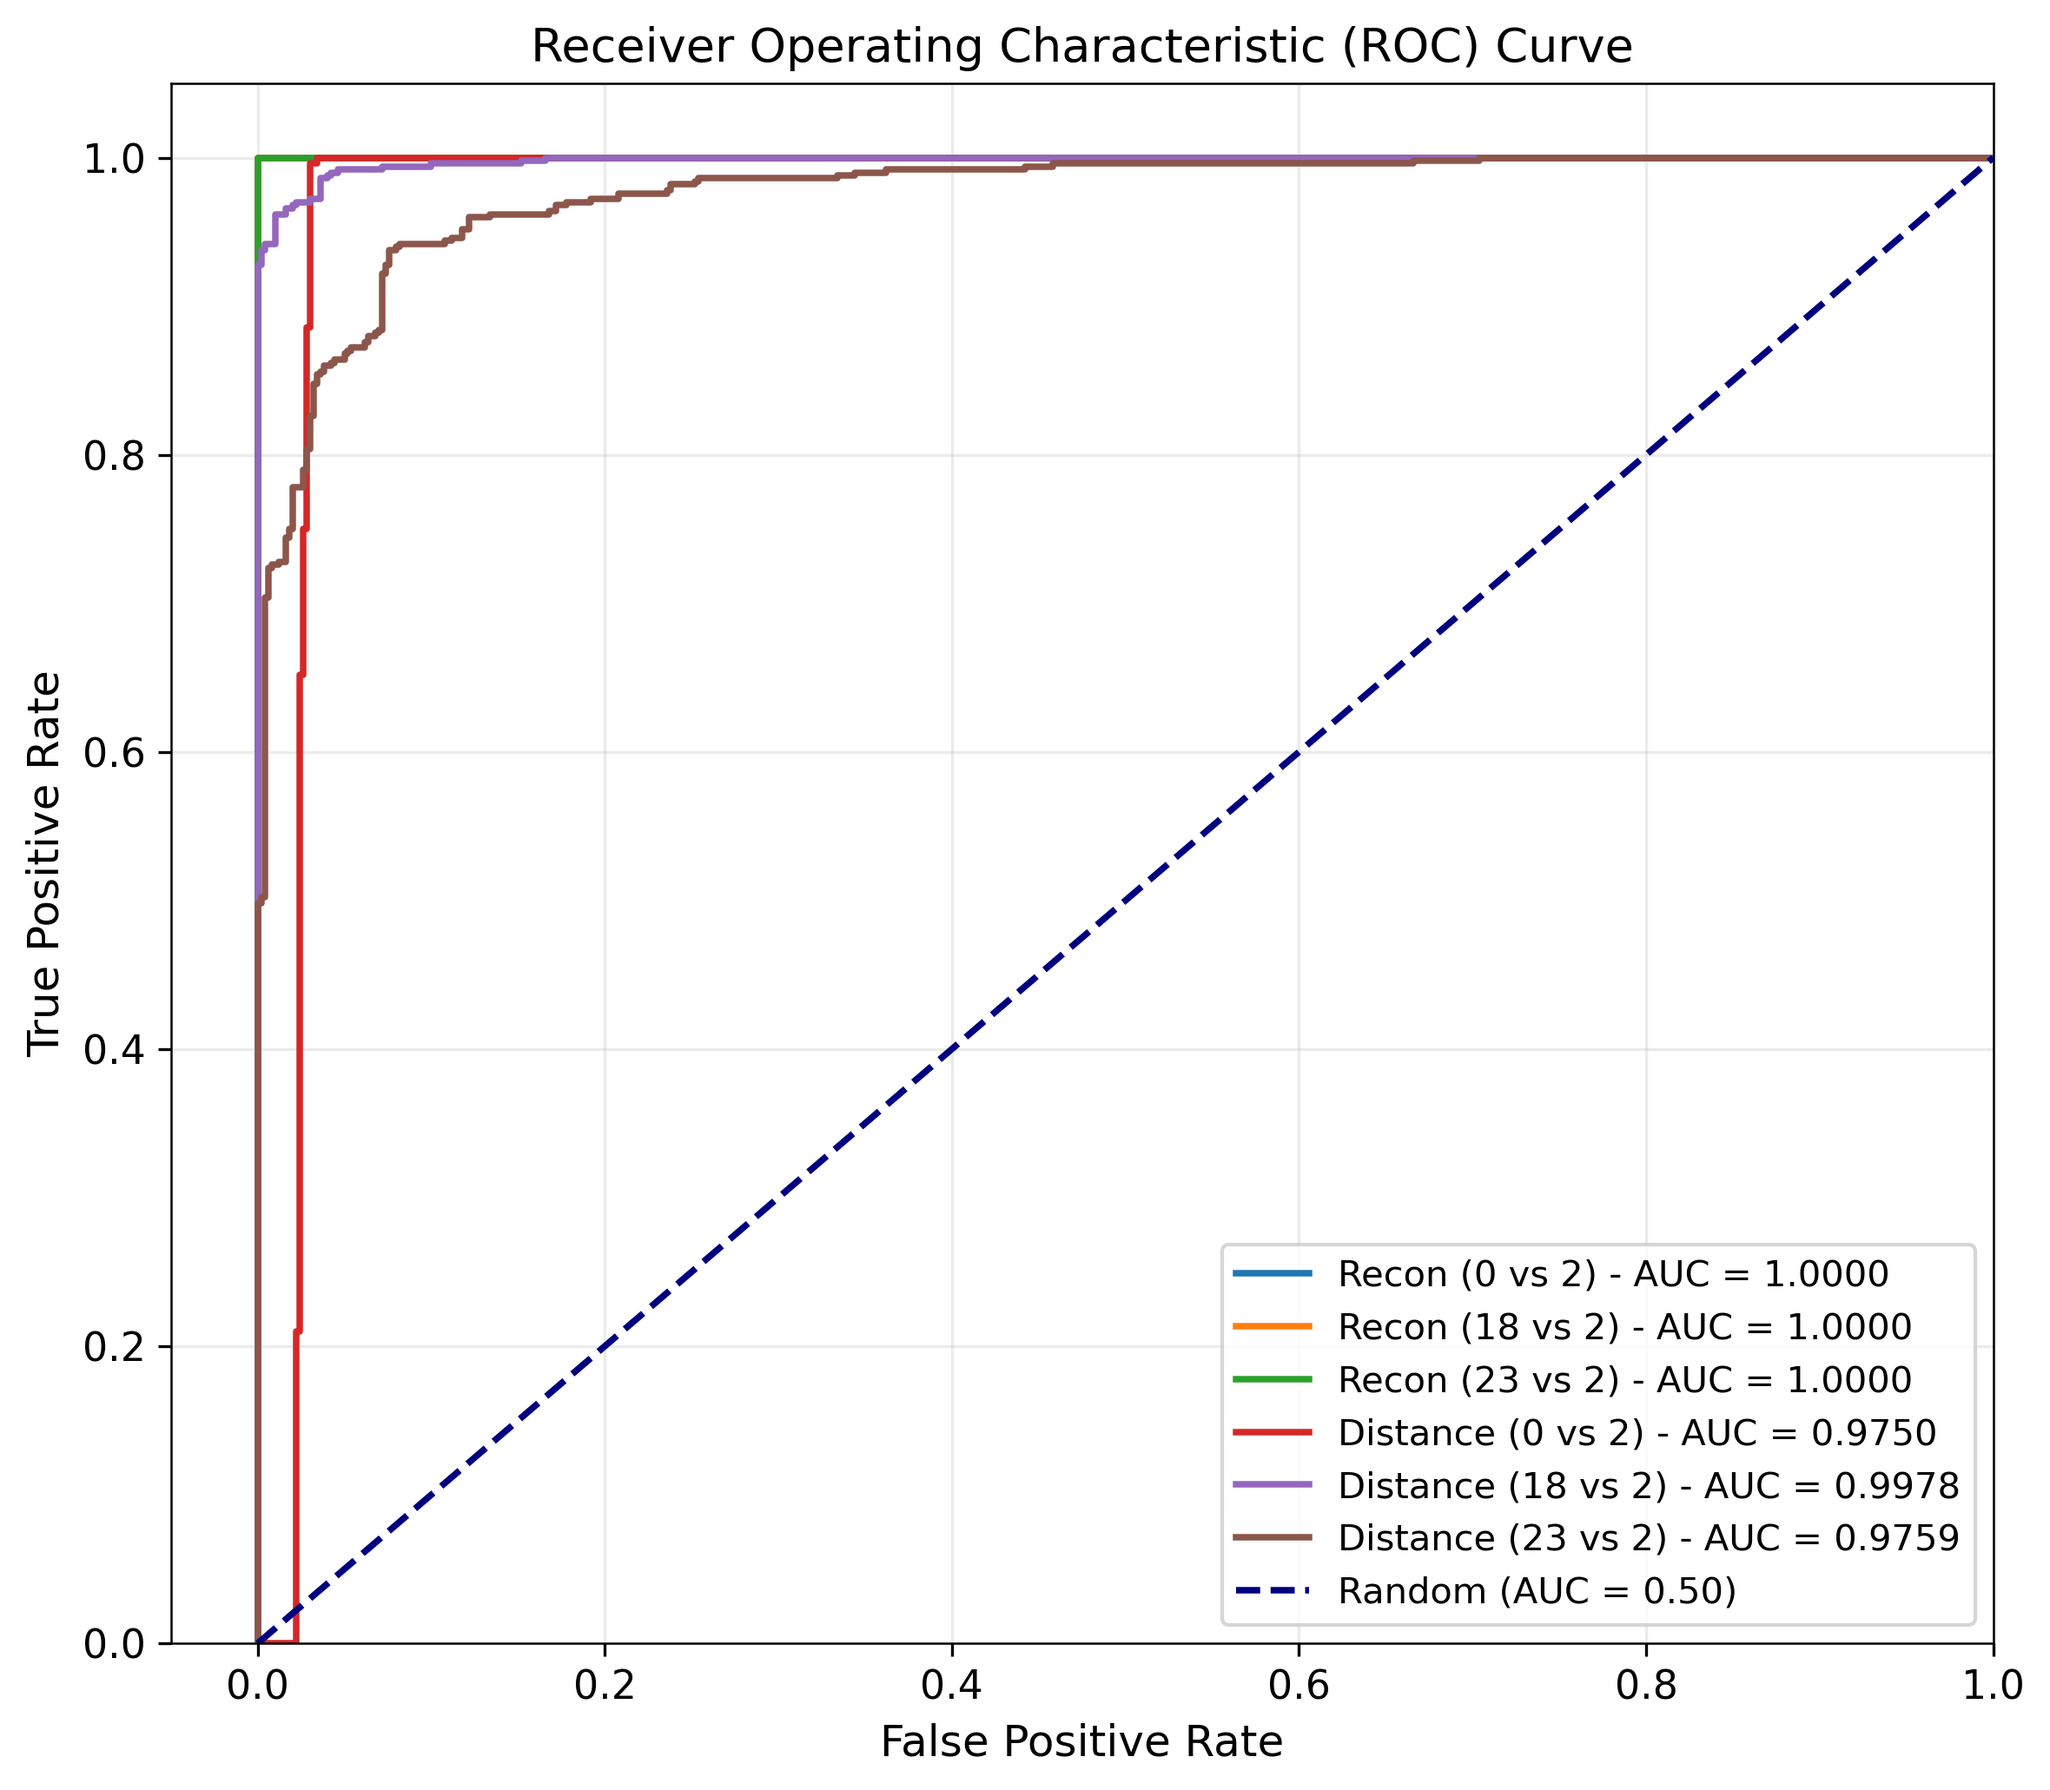
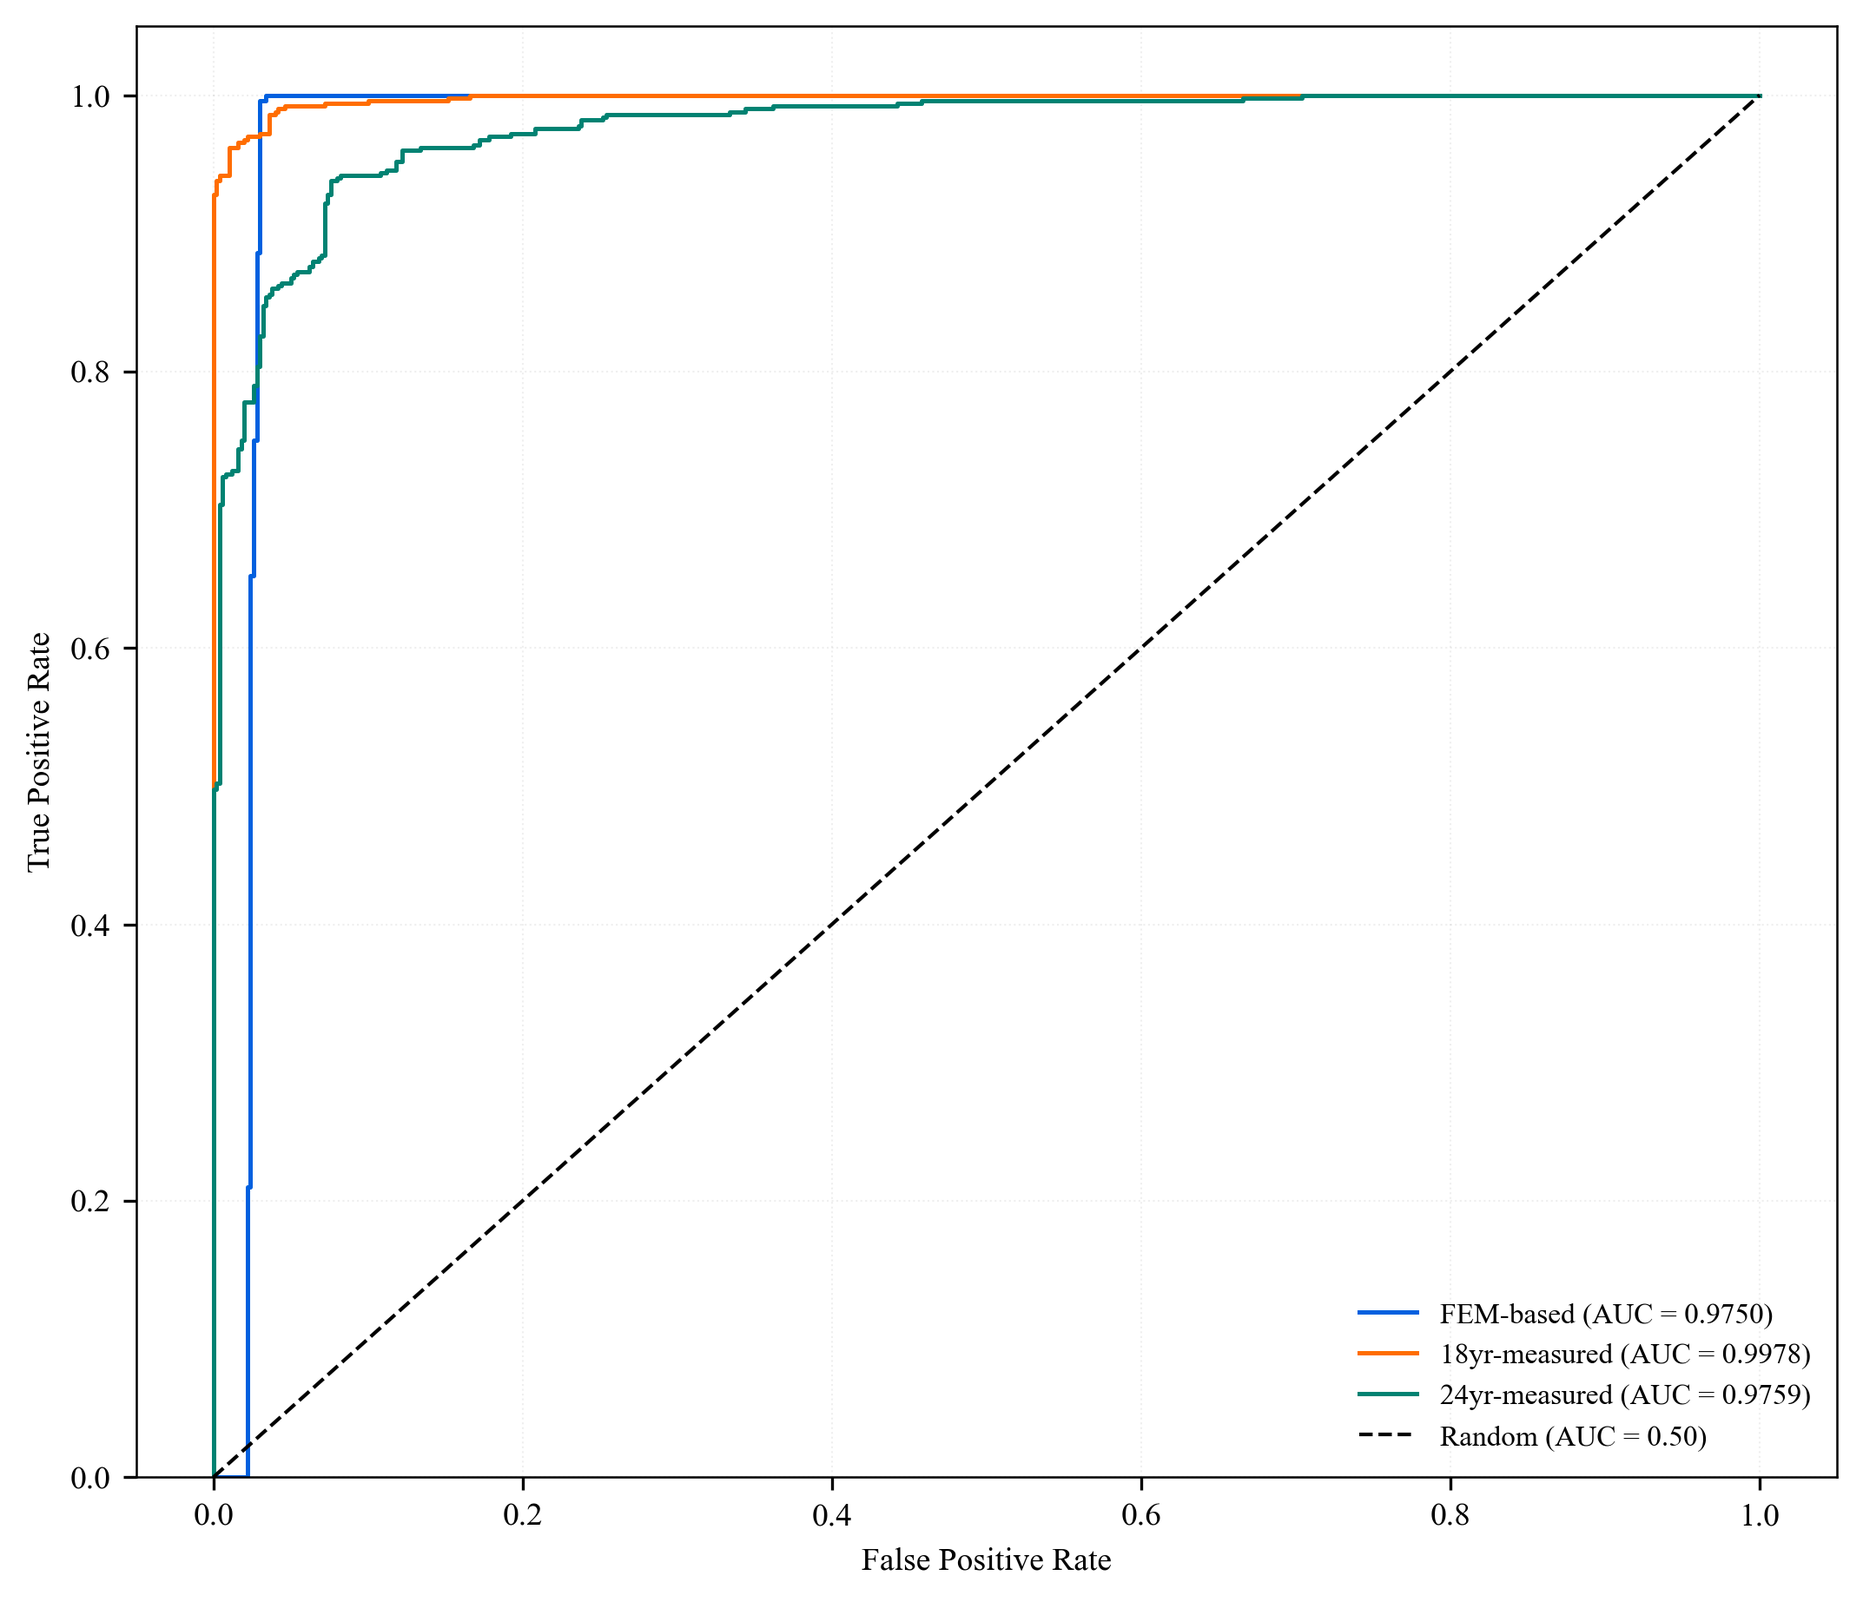
KNU

diff --git a/results/anomaly_scores.py b/results/anomaly_scores.py
@@ -1,22 +1,40 @@
 # results/anomaly_scores.py
 
 import os
+import sys
+import itertools
+from typing import Dict, Tuple, Optional
+
 import pandas as pd
+import matplotlib as mpl
 import matplotlib.pyplot as plt
 from sklearn.metrics import roc_curve, auc
 
 
-plt.rcParams.update({
-    "font.family": "sans-serif",
-    "font.size": 11,
-    "axes.titlesize": 13,
-    "axes.labelsize": 12,
-    "legend.fontsize": 10,
+PAPER_RC_PARAMS = {
+    "font.family": "serif",
+    "font.serif": ["Times New Roman", "Times", "Nimbus Roman", "CMU Serif", "FreeSerif"],
+    "font.size": 9,
+    "axes.titlesize": 10,
+    "axes.labelsize": 9,
+    "legend.fontsize": 8,
     "figure.dpi": 300,
+    "lines.linewidth": 1.2,
     "axes.linewidth": 0.6,
-    "lines.linewidth": 1.8,
-    "grid.alpha": 0.25,
-})
+    "grid.alpha": 0.20,
+}
+mpl.rcParams.update(PAPER_RC_PARAMS)
+
+CLASS_PAIRS = [(0, 2), (18, 2), (23, 2)]
+
+LABEL_MAP = {
+    ("Recon",     0, 2): "Healthy vs. Pneumonia",
+    ("Recon",    18, 2): "Metal Noise vs. Pneumonia",
+    ("Recon",    23, 2): "Device-B vs. Pneumonia",
+    ("Distance",  0, 2): "FEM-based",
+    ("Distance", 18, 2): "18yr-measured",
+    ("Distance", 23, 2): "24yr-measured",
+}
 
 def _read_loss_csv(path: str) -> pd.DataFrame:
     df = pd.read_csv(path)
@@ -27,50 +45,63 @@ def _read_loss_csv(path: str) -> pd.DataFrame:
 def plot_roc_curves(recon_path: str, dist_path: str, save_path: str):
     os.makedirs(os.path.dirname(save_path), exist_ok=True)
 
-    recon_df = _read_loss_csv(recon_path)
-    dist_df = _read_loss_csv(dist_path)
+    scenarios = []
+    scenario_styles = {"Recon": ":", "Distance": "-"}
 
-    plt.figure(figsize=(8, 7))
+    if recon_path and os.path.isfile(recon_path):  # recon
+        scenarios.append(("Recon", _read_loss_csv(recon_path)))
+    else:
+        print(f"[WARN] Recon CSV not found → skip: {recon_path}", file=sys.stderr)
+    
+    if dist_path and os.path.isfile(dist_path):  # dist
+        scenarios.append(("Distance", _read_loss_csv(dist_path)))
+    else:
+        print(f"[WARN] Distance CSV not found → skip: {dist_path}", file=sys.stderr)
 
-    scenarios = [("Recon", recon_df),
-                 ("Distance", dist_df)]
+    if not scenarios:
+        raise FileNotFoundError("No valid CSV files found for plotting.")
 
-    # Pairs of classes to compare (normal class, abnormal class)
-    class_pairs = [(0, 2), (18, 2), (23, 2)]
+    plt.figure(figsize=(7, 6))
+    colors = ["#0060df", "#ff6d00", "#008272"]
+    #markers   = itertools.cycle(["o", "s", "^"])
 
-    for name, df in scenarios:
-        for normal_class, anomaly_class_val in class_pairs:
-            filtered_df = df[df["class_label"].isin([normal_class, anomaly_class_val])].copy()
-            # y_true: anomaly_label (0: normal, 2: anormal)
-            y_true = filtered_df["anomaly_label"]
-            # y_score: predict score
-            y_score = filtered_df["score"]
+    for idx, (normal_cls, anom_cls) in enumerate(CLASS_PAIRS):
+        color = colors[idx]
+
+        for name, df in scenarios:
+            ls = scenario_styles[name]
+            sub = df[df["class_label"].isin([normal_cls, anom_cls])]
+            if sub.empty:
+                continue
+            y_true, y_score = sub["anomaly_label"], sub["score"]
 
             # calc ROC curve and AUC
             fpr, tpr, _ = roc_curve(y_true, y_score)
             roc_auc = auc(fpr, tpr)
 
-            label = f"{name} ({normal_class} vs {anomaly_class_val}) - AUC = {roc_auc:.4f}"
-            plt.plot(fpr, tpr, label=label)
+            label_text = LABEL_MAP.get((name, normal_cls, anom_cls), f"{name} ({normal_cls} vs {anom_cls})")
+            label = f"{label_text} (AUC = {roc_auc:.4f})"
+            plt.plot(fpr, tpr, label=label, color=color, linestyle=ls)
 
     # plot
-    plt.plot([0, 1], [0, 1], color="navy", lw=1.8, linestyle="--", label="Random (AUC = 0.50)")
-    plt.xlim([-0.05, 1.0])
+    plt.plot([0, 1], [0, 1], "k--", lw=1, label="Random (AUC = 0.50)")
+    plt.xlim([-0.05, 1.05])
     plt.ylim([0.0, 1.05])
     plt.xlabel("False Positive Rate")
     plt.ylabel("True Positive Rate")
-    plt.title("Receiver Operating Characteristic (ROC) Curve")
-    plt.legend(loc="lower right")
-    plt.grid(True)
+    #plt.title("Receiver Operating Characteristic (ROC) Curve")
+    plt.legend(frameon=False, loc="lower right")
+    plt.grid(True, linestyle=":", linewidth=0.5)
 
-    plt.tight_layout()
+    plt.tight_layout(pad=0.2)
     plt.savefig(save_path, bbox_inches='tight')
     print(f"ROC curve plot saved to '{save_path}'")
     plt.close()
 
 
 if __name__ == "__main__":
-    recon_file = "./results/scores/csv/v3.2.4/s2(all)_scores_epoch30_recon.csv"
+    recon_file = None
+    #recon_file = "./results/scores/csv/v3.2.4/s2(all)_scores_epoch30_recon.csv"
     dist_file = "./results/scores/csv/v3.2.4/s2(all)_scores_epoch30_distance.csv"
     output_file = "./results/scores/figure/v3.2.4/s2(all)_auc_roc_curves_final.png"
 
